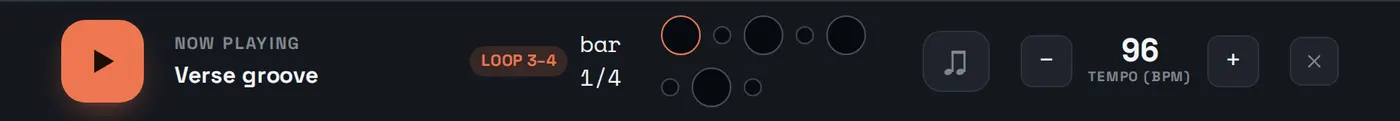
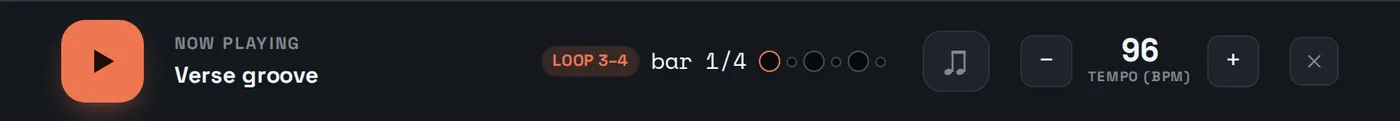
Player-bar beat dots never wrap: they scale to fit
The beats area is a size container now: dots shrink through three size
tiers instead of wrapping to a second row, counters stay on one line
(nowrap, hidden at the very tightest), and safe centering keeps the
loop pill from being clipped. Guide screenshots regenerated.

diff --git a/src/styles/v2-extra.css b/src/styles/v2-extra.css
@@ -702,3 +702,27 @@ a.iconbtn { display: inline-grid; place-items: center; text-decoration: none; }
 
 /* Pills in the beats area must not stretch into blobs when the dots wrap. */
 .pb-beats { align-items: center; gap: 8px; }
+
+/* Beat dots in the player bar NEVER wrap — they scale down to fit instead. */
+.pb-beats { container-type: inline-size; justify-content: safe center; }
+.pb-beats .beats { flex-wrap: nowrap; }
+.pb-beats .pb-barcount, .pb-beats .pb-muted-pill { white-space: nowrap; flex: none; }
+/* At the very tightest, the dots matter more than the counters. */
+@container (max-width: 210px) {
+  .pb-beats .pb-barcount { display: none; }
+}
+@container (max-width: 420px) {
+  .pb-beats .beat { width: 19px; height: 19px; }
+  .pb-beats .beat.sub { width: 9px; height: 9px; }
+  .pb-beats .beats { gap: 5px; }
+}
+@container (max-width: 280px) {
+  .pb-beats .beat { width: 14px; height: 14px; }
+  .pb-beats .beat.sub { width: 7px; height: 7px; }
+  .pb-beats .beats { gap: 4px; }
+}
+@container (max-width: 190px) {
+  .pb-beats .beat { width: 10px; height: 10px; }
+  .pb-beats .beat.sub { width: 5px; height: 5px; }
+  .pb-beats .beats { gap: 3px; }
+}

diff --git a/src/App.jsx b/src/App.jsx
@@ -33,7 +33,7 @@ import { initClickSamples } from './audio/clickSamples.js'
 import { loadSetlist, toggleInSetlist, removeFromSetlist, moveInSetlist, clearSetlist } from './model/setlist.js'
 import { decodeShare, shareFromHash } from './model/share.js'
 
-const APP_VERSION = 'v5.36' // bump on each change so a stale cache is obvious on device
+const APP_VERSION = 'v5.37' // bump on each change so a stale cache is obvious on device
 const TW_KEY = 'drums2_tw'
 const PROG_KEY = 'drums2_progress'
 const OPTS_KEY = 'drums2_opts'
